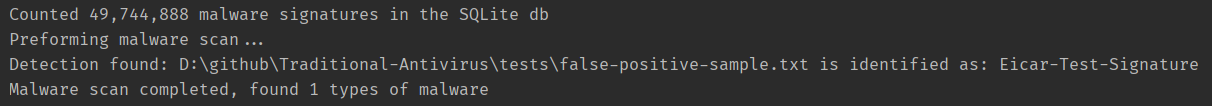
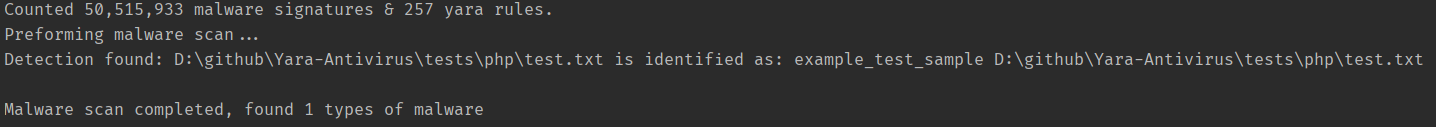
Added Screenshot

Changed region(s): [[0.0, 0.0, 1.0, 0.7075], [0.0, 0.7642, 0.4274, 0.934]]

diff --git a/README.md b/README.md
@@ -1,6 +1,8 @@
 # Yara-Antivirus
 Built on top of [Traditional-Antivirus](https://github.com/Konloch/Traditional-Antivirus), YAV supports file signature scanning and Yara[1] scanning.
 
+![Screenshot-1](.github/screen-1.png "Screenshot-1")
+
 ## Features
 + Scans using Yara & File signatures.
 + Automatically updates from ClamAV's DB[2], Malware Bazaar[3], VirusShare[4] & Yaraify[5].
